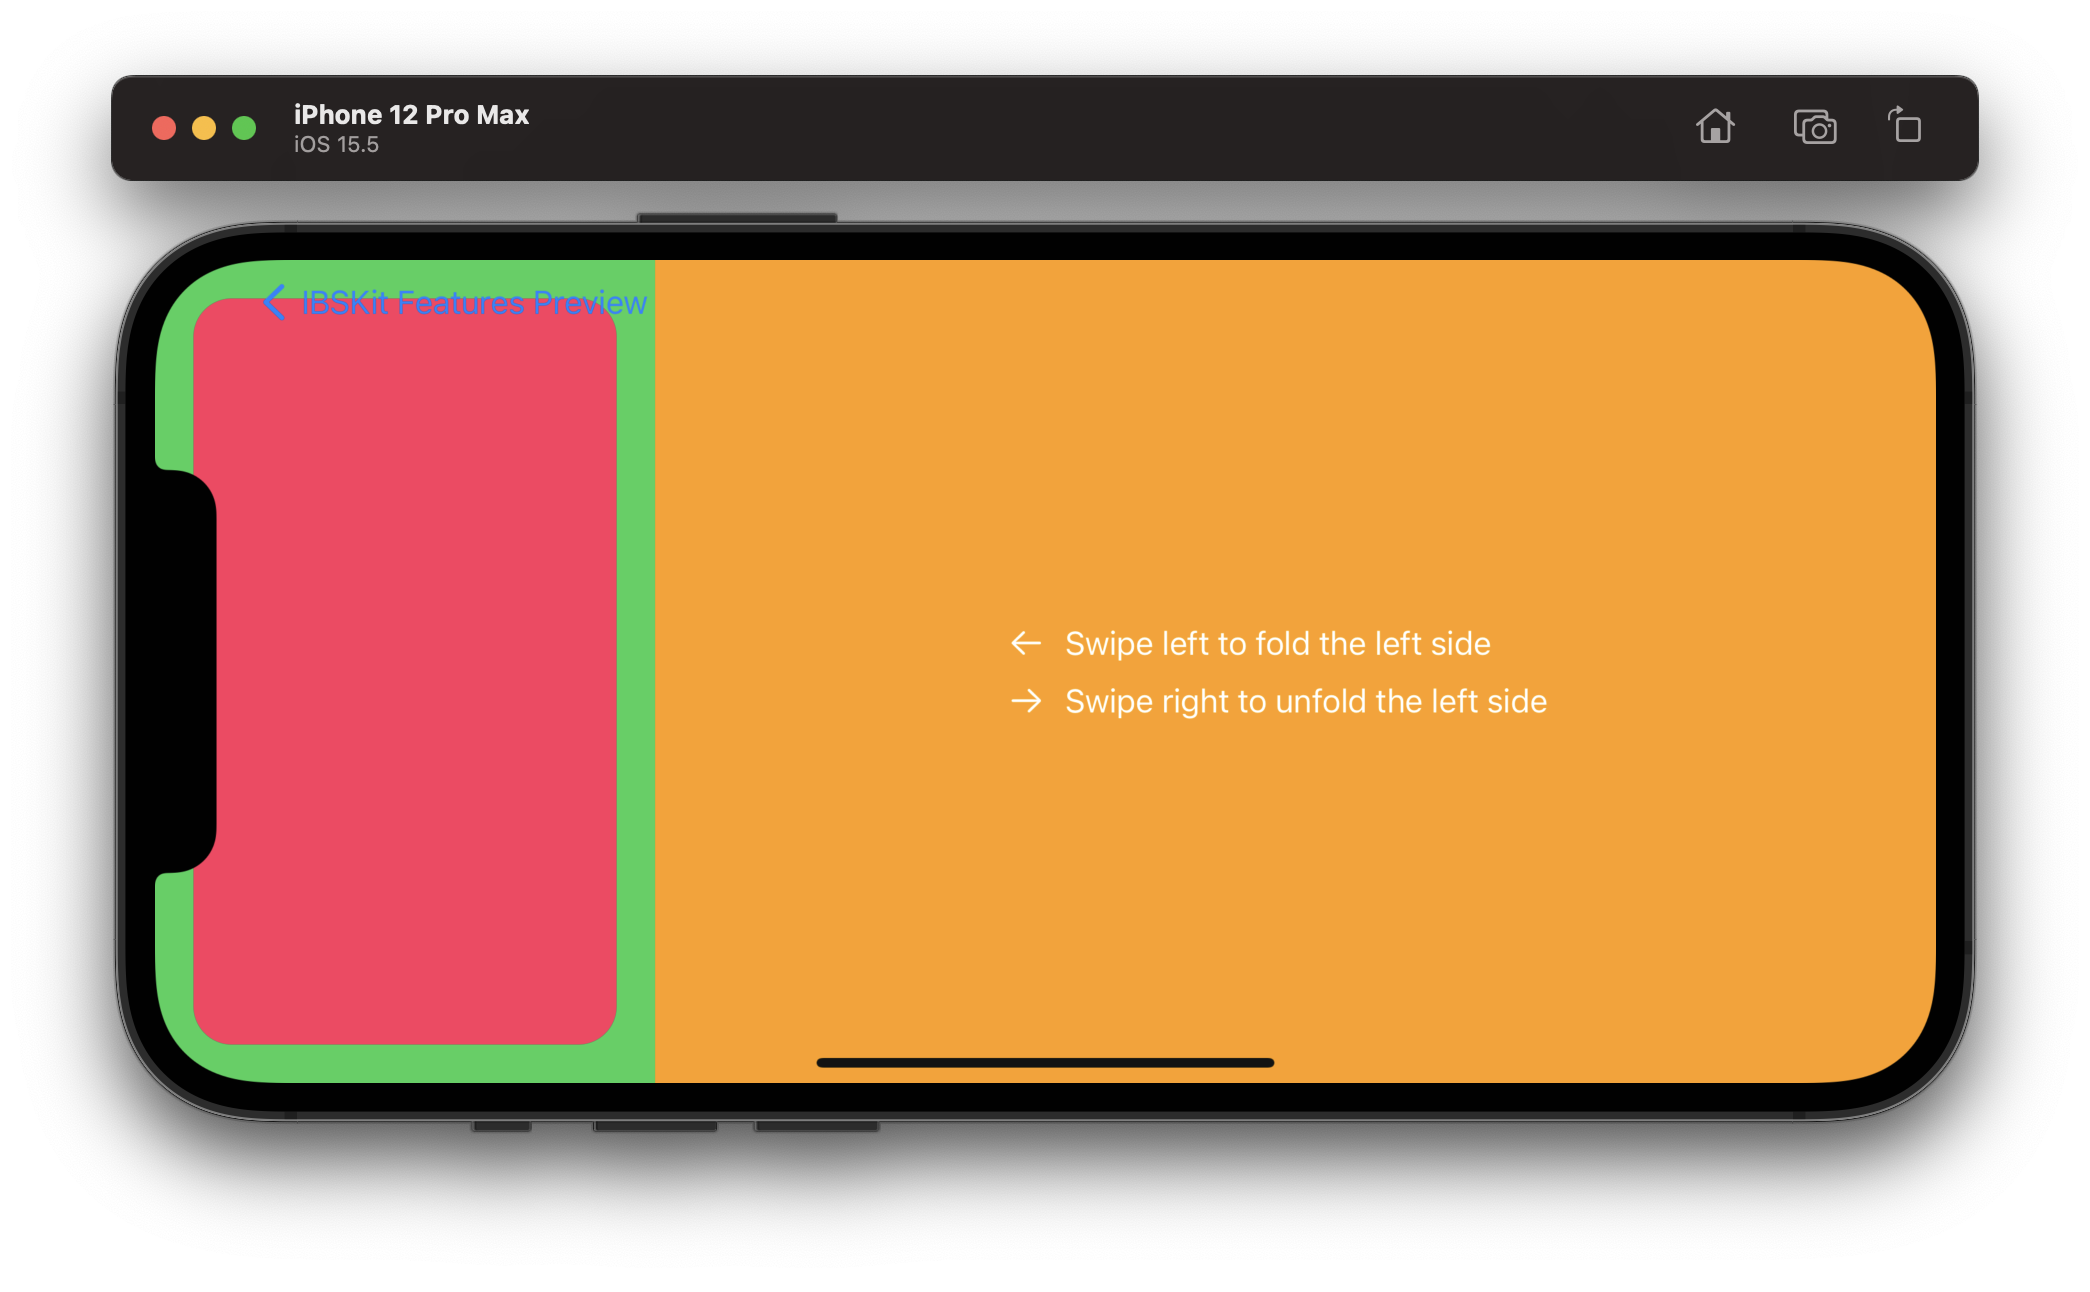
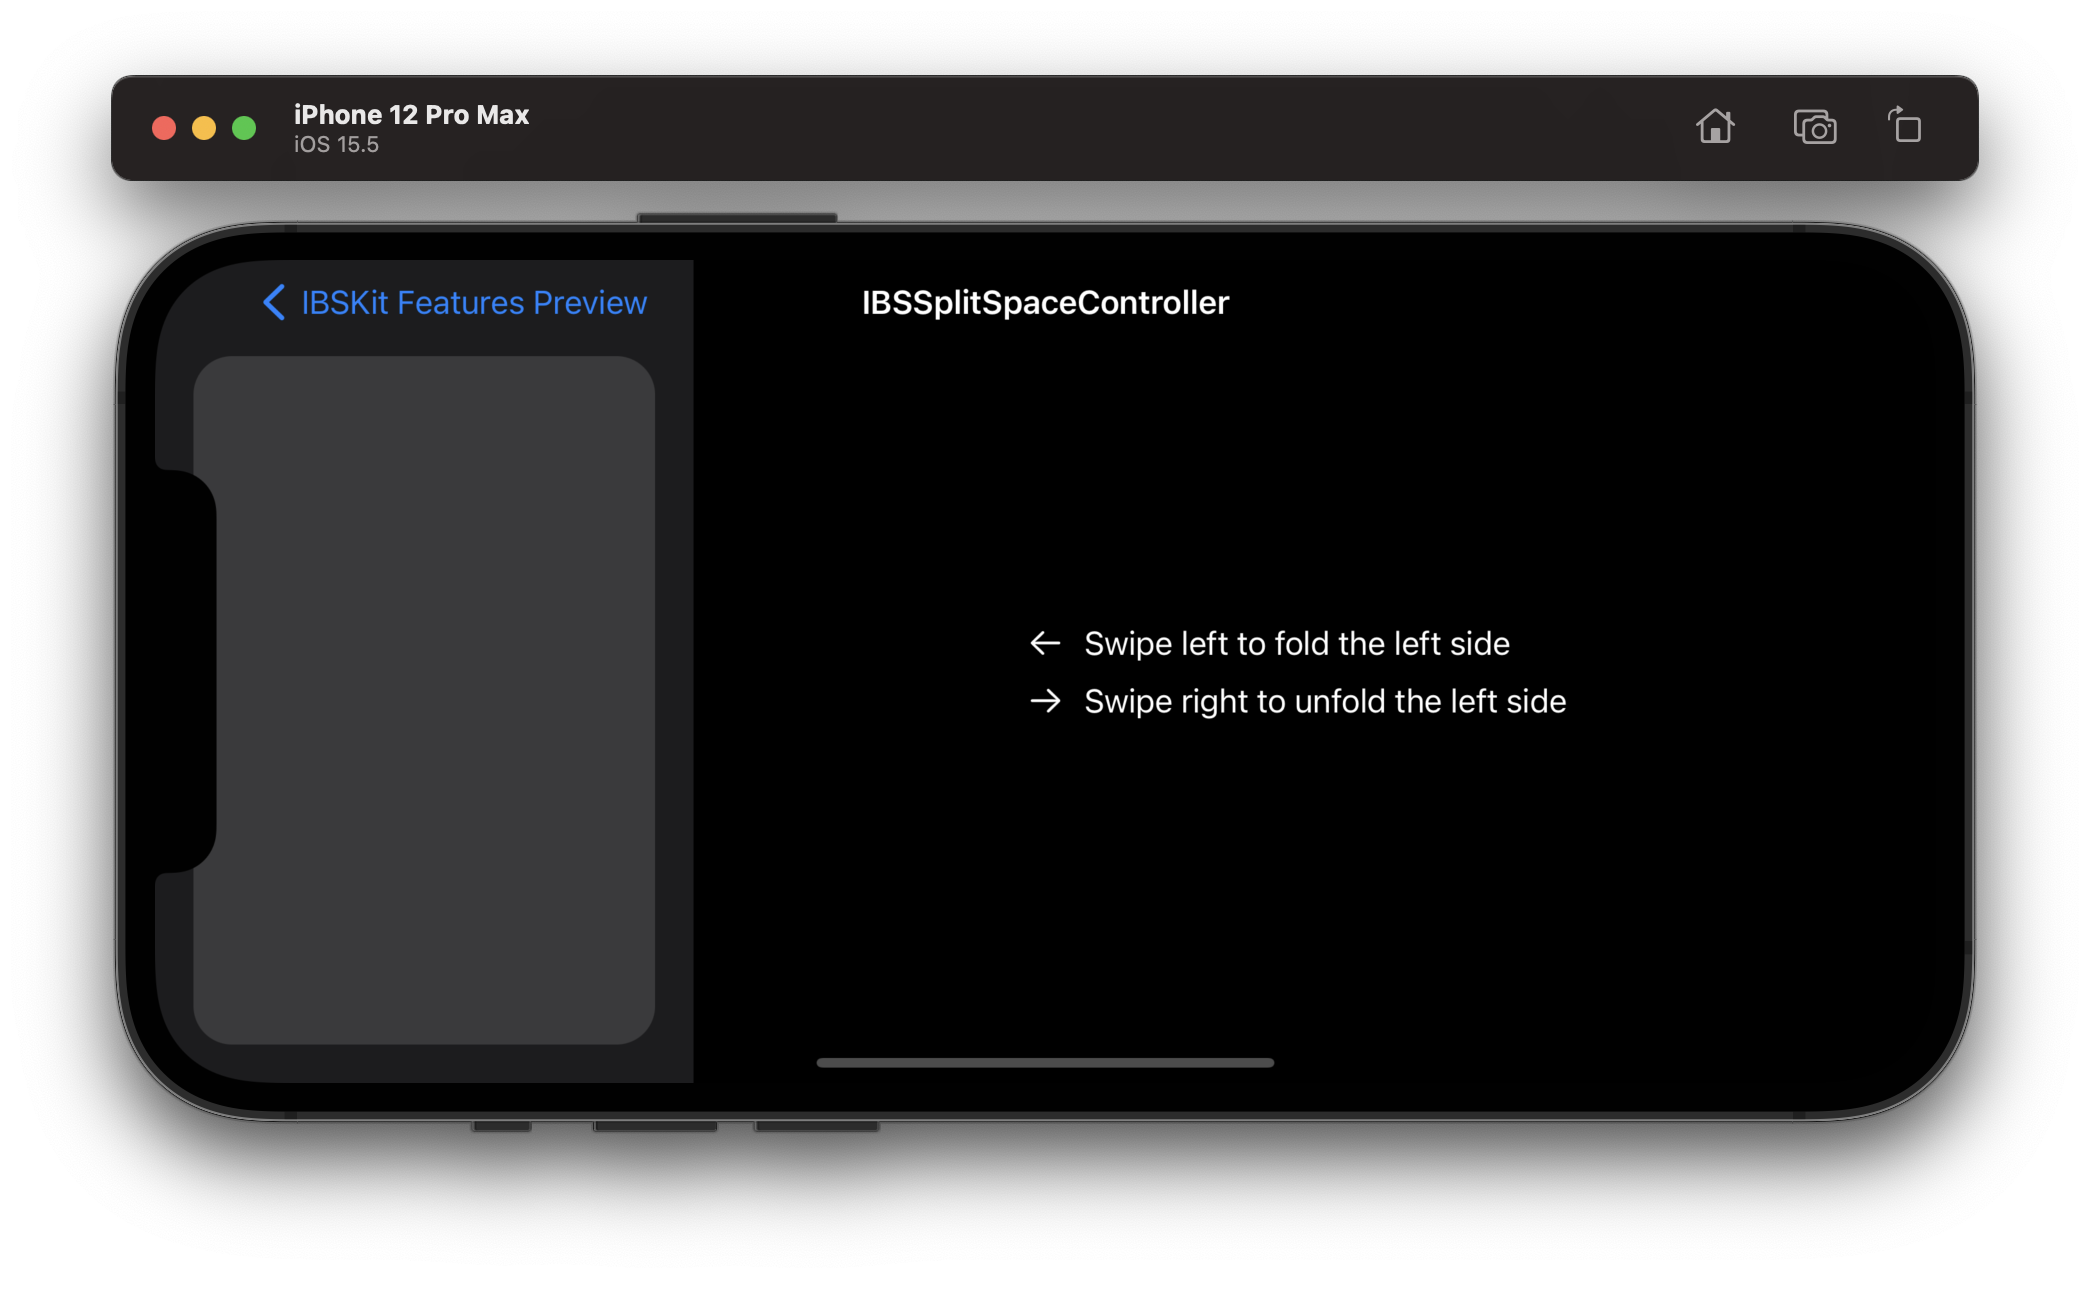
update SplitSpaceScreen image

diff --git a/IBSKit Demo/IBSKit Demo/MVC Pattern/Views/Split Space Screen/LeftSideScreen.swift b/IBSKit Demo/IBSKit Demo/MVC Pattern/Views/Split Space Screen/LeftSideScreen.swift
@@ -23,7 +23,7 @@ final class LeftSideScreen: UIViewController {
     private let resizableView: UIView = {
         let view = UIView()
         view.layer.cornerRadius = 20.0
-        view.backgroundColor = .systemPink
+        view.backgroundColor = .systemGray4
         view.isUserInteractionEnabled = false
         view.clipsToBounds = false
         view.translatesAutoresizingMaskIntoConstraints = false
@@ -53,7 +53,7 @@ final class LeftSideScreen: UIViewController {
     // MARK: - Private functions
 
     private func setupViews() {
-        view.backgroundColor = .systemGreen
+        view.backgroundColor = .systemGray6
 
         view.addSubview(resizableView)
     }
@@ -61,9 +61,9 @@ final class LeftSideScreen: UIViewController {
     private func computeFrames() {
         resizableView.frame = .init(
             x: view.bounds.minX + 20.0,
-            y: view.bounds.minY + 20.0,
+            y: view.bounds.minY + 50.0,
             width: view.bounds.maxX - 40.0,
-            height: view.bounds.maxY - 40.0
+            height: view.bounds.maxY - 70.0
         )
     }
 }

diff --git a/IBSKit Demo/IBSKit Demo/MVC Pattern/Views/Split Space Screen/SplitSpaceScreen.swift b/IBSKit Demo/IBSKit Demo/MVC Pattern/Views/Split Space Screen/SplitSpaceScreen.swift
@@ -22,7 +22,7 @@ final class SplitSpaceScreen: IBSSplitSpaceController {
     // MARK: - Public properties
 
     override var minimumLeftSideSize: CGFloat { 100.0 }
-    override var maximumLeftSideSize: CGFloat { 260.0 }
+    override var maximumLeftSideSize: CGFloat { 280.0 }
 
     override var leftSideInitialState: IBSSplitSpaceController.LeftSideInitialState { .unfold }
 
@@ -51,6 +51,8 @@ final class SplitSpaceScreen: IBSSplitSpaceController {
     override func viewDidLoad() {
         super.viewDidLoad()
 
+        setupNavigationController()
+
         setupViews()
 
         setupSwipeGestureRecognizer()
@@ -63,6 +65,12 @@ final class SplitSpaceScreen: IBSSplitSpaceController {
     private func setupSplitSpaceController() {
         leftSideViewController = LeftSideScreen()
         rightSideViewController = RightSideScreen()
+    }
+
+    private func setupNavigationController() {
+        navigationItem.title = "\(IBSSplitSpaceController.self)"
+
+        navigationController?.navigationBar.prefersLargeTitles = false
     }
 
     private func setupViews() {

diff --git a/IBSKit Demo/IBSKit Demo/MVC Pattern/Views/Split Space Screen/RightSideScreen.swift b/IBSKit Demo/IBSKit Demo/MVC Pattern/Views/Split Space Screen/RightSideScreen.swift
@@ -115,8 +115,6 @@ final class RightSideScreen: UIViewController {
     // MARK: - Private functions
 
     private func setupViews() {
-        view.backgroundColor = .systemOrange
-
         view.addSubview(mainStackView)
     }
 
